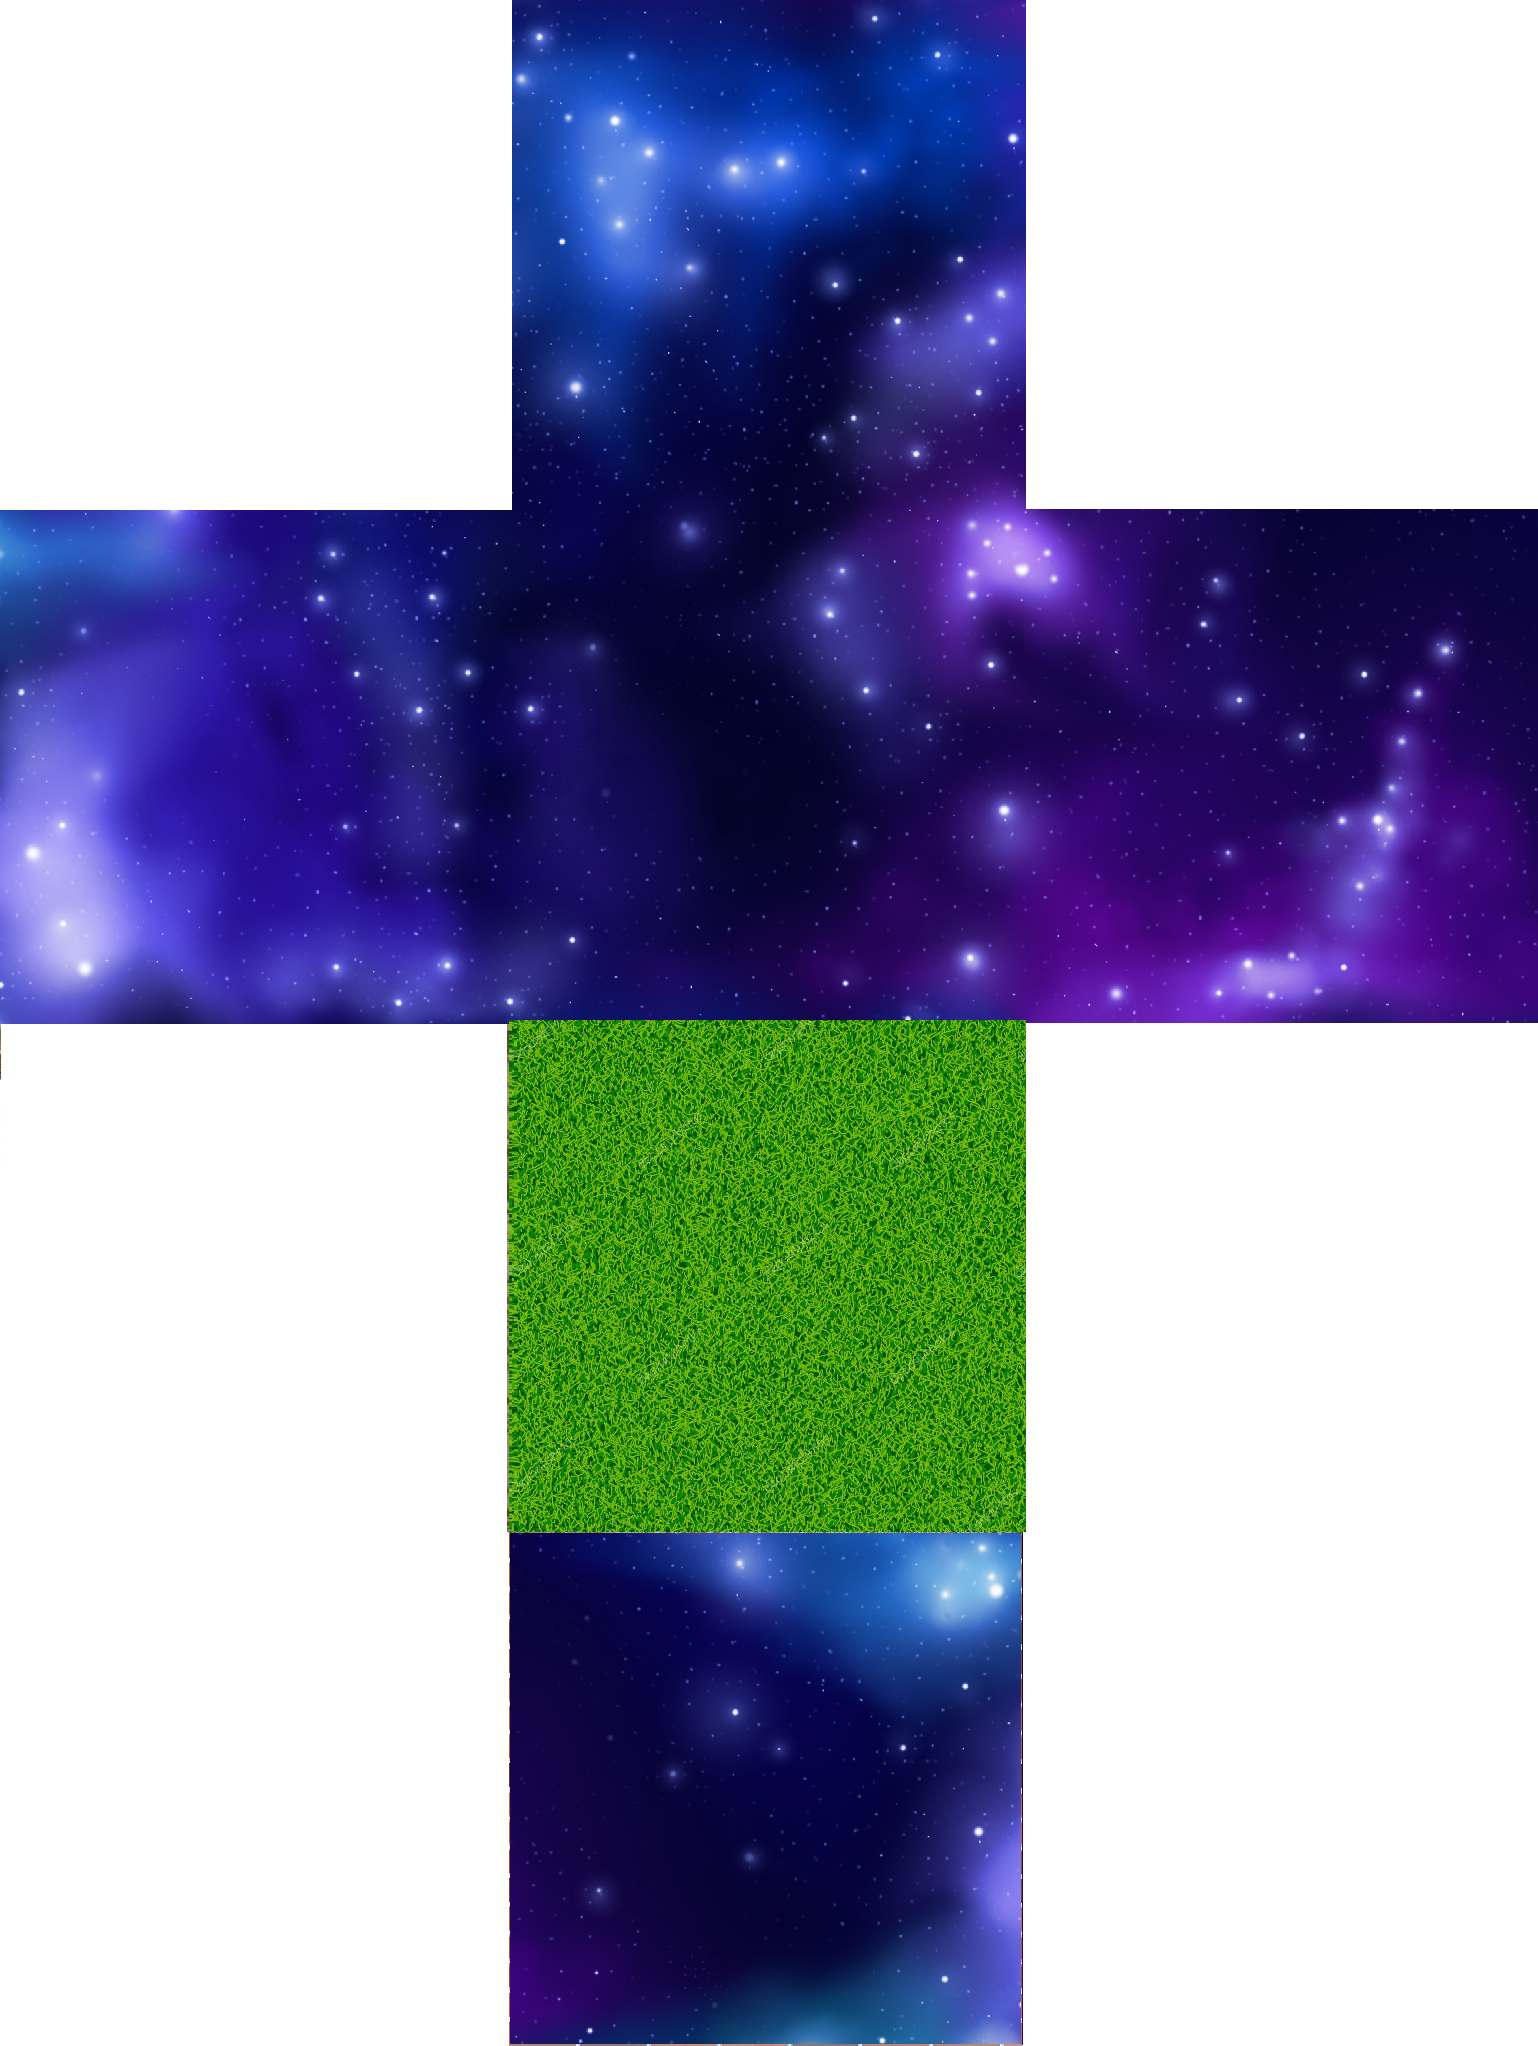
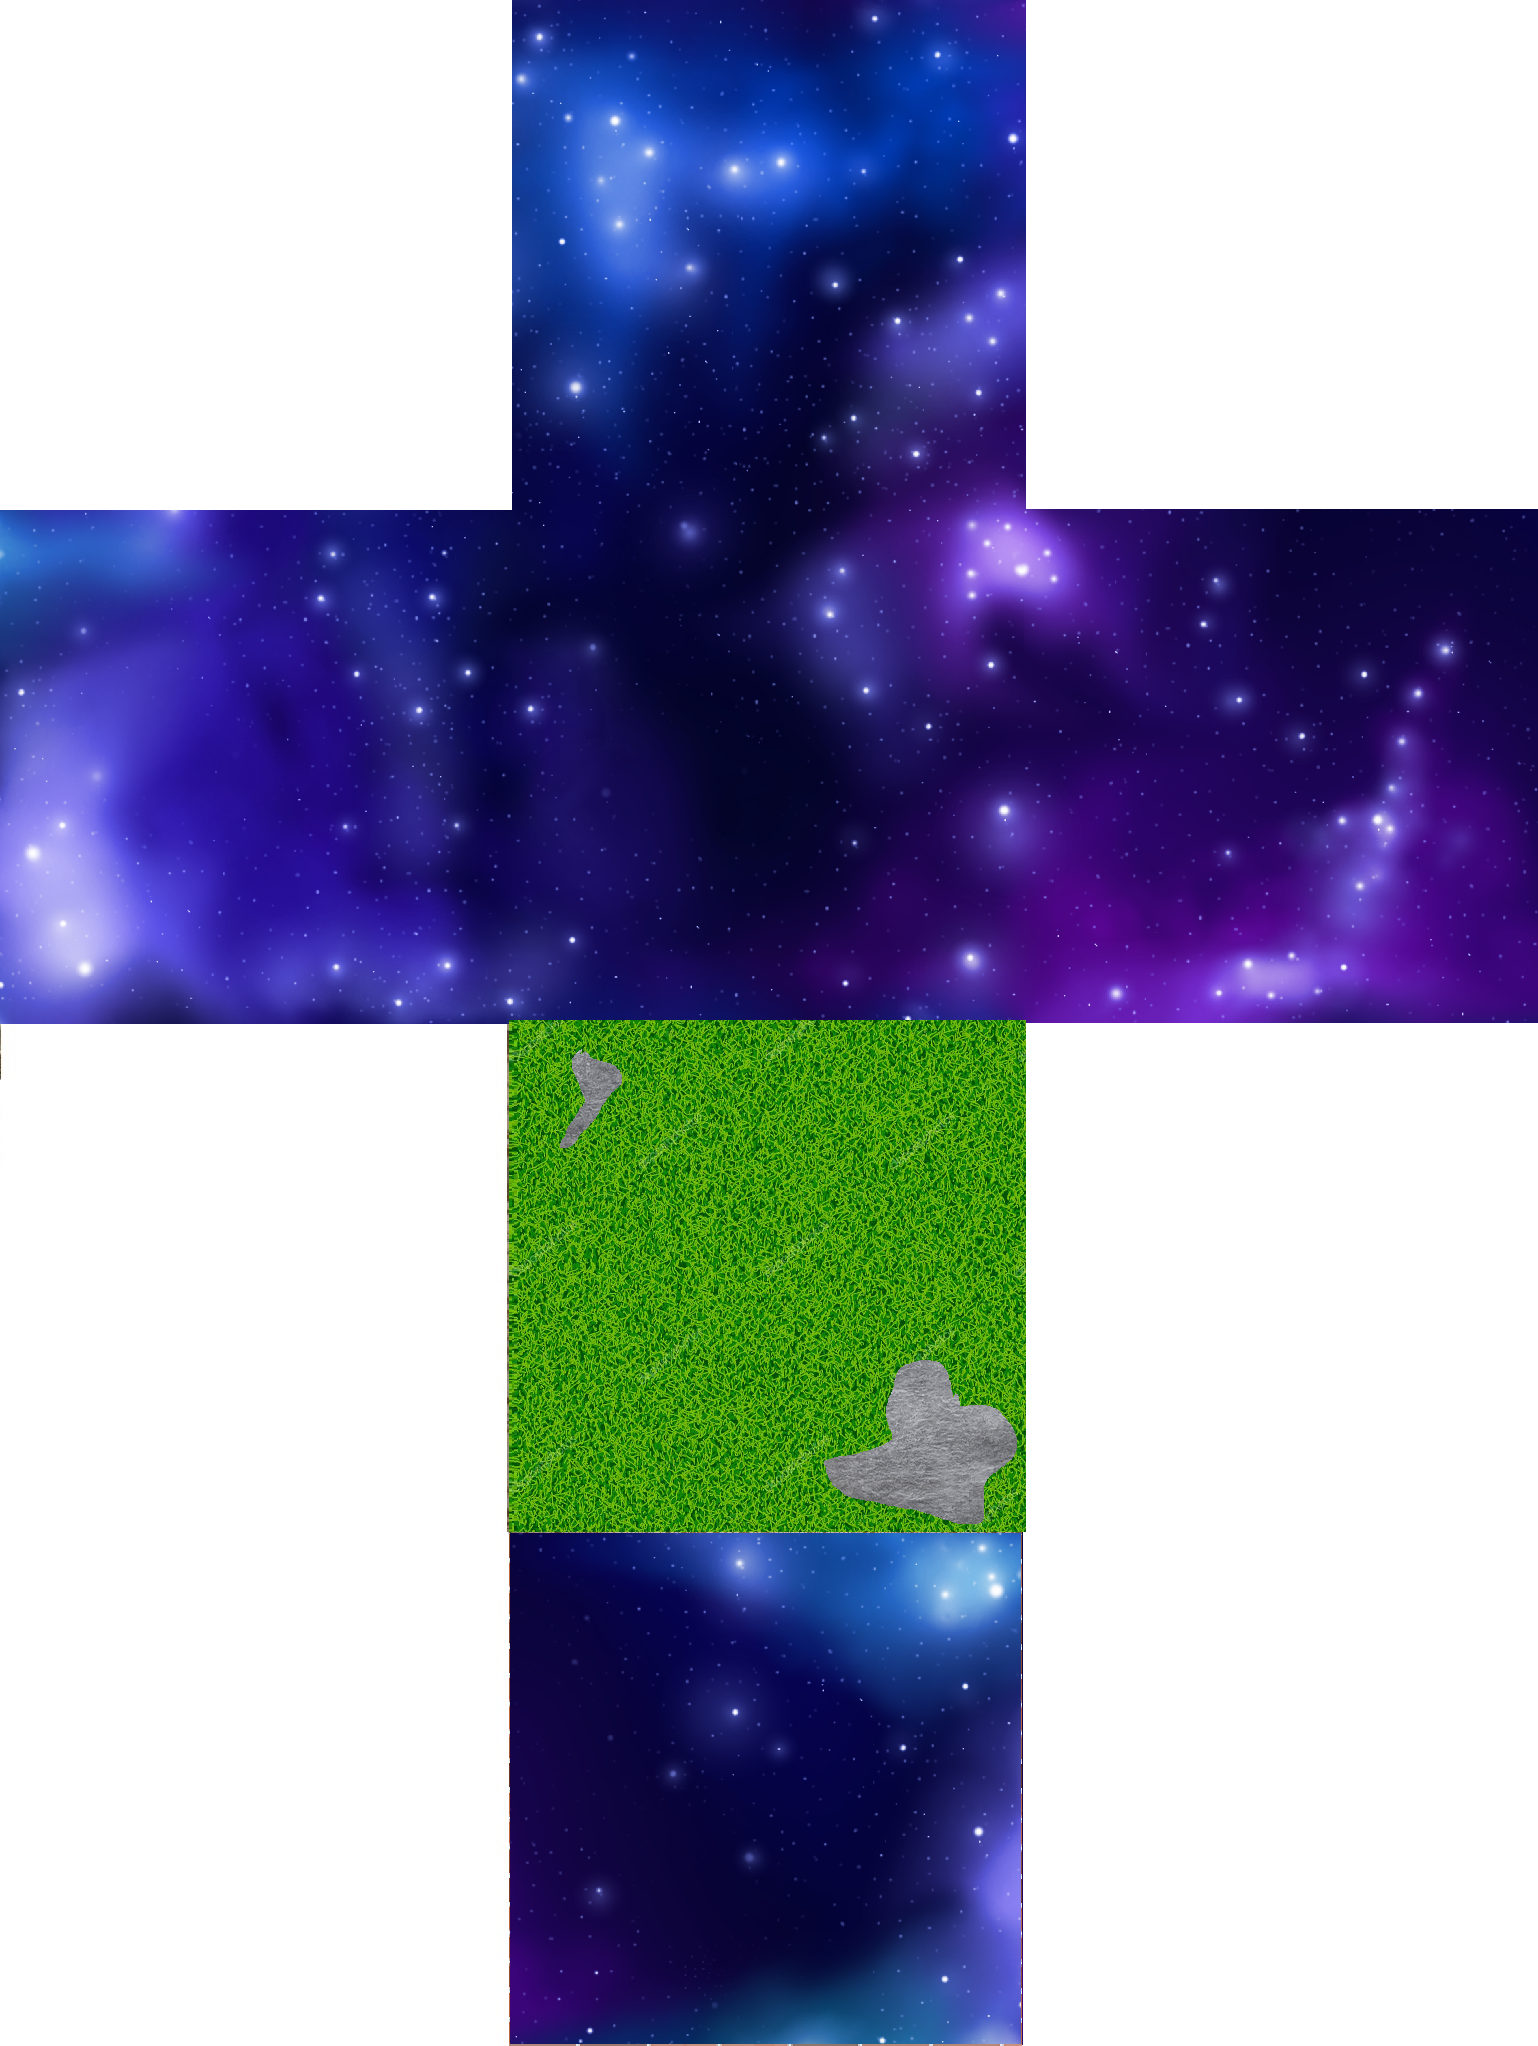
Update all scene

Changed region(s): [[0.5306, 0.6466, 0.6554, 0.739], [0.3745, 0.4927, 0.4057, 0.5543]]

diff --git a/main.py b/main.py
@@ -1,16 +1,4 @@
-#!/usr/bin/env python
-# coding: utf-8
-
-# # Aula 10.Ex1 - Modelo de Iluminação - Ambiente e Difusa
-
-# ### Primeiro, importamos as bibliotecas necessárias.
-# Verifique no código anterior um script para instalar as dependências necessárias (OpenGL e GLFW) antes de prosseguir.
-
-# In[ ]:
-
-
 import glfw
-from OpenGL.GL import *
 import numpy as np
 import glm
 
@@ -112,16 +100,19 @@ vertices_list = []
 normals_list = []
 textures_coord_list = []
 
-model_files = [['house.obj', 'house.jpg'],['outhouse.obj','outhouse.png'],['sky.obj','sky.jpg'],
-               ['table.obj', 'table.jpg'],['chair.obj', 'chair.jpg'],['black-chair.obj', 'black-chair.jpg']]
-#model_files = [['table.obj', 'table.jpg']]
+model_files = [['house.obj', 'house.jpg'],['outhouse.obj','outhouse.png'],['sky.obj','sky.png'],
+               ['table.obj', 'table.jpg'],['chair.obj', 'chair.jpg'],['stone.obj', 'stone.png'],
+               ['stone2.obj', 'stone2.jpg'],['stick.obj','stick.jpg'],['ball.obj', 'ball.png']]
 model_geometrical_init_infos = [{'r':[1,0,0],'s':[.3,.3,.3],'t':[0,0,-0.59], 'a':-90,'kd':0.3,'ka':0.5},
                                 {'r':[1,0,0],'s':[.300001,.300001,.300001],'t':[0,0,-0.59], 'a':-90,'kd':0.3,'ka':0.5},
-                                {'r':[1,0,0],'s':[.9,.9,.9],'t':[0,0,0], 'a':-90,'kd':0.3,'ka':0.5},
+                                {'r':[1,0,0],'s':[1.5,1.5,1.5],'t':[0,0,.55], 'a':-90,'kd':0.3,'ka':0.5},
                                 {'r':[1,1,1],'s':[.3,.3,.3],'t':[0.2,-1.25,0.3], 'a':0,'kd':0.3,'ka':0.5},
+
                                 {'r':[0,1,0],'s':[.002,.002,.002],'t':[-.25,-.9,0], 'a':-45,'kd':0.3,'ka':0.5},
-                                {'r':[0,1,0],'s':[.002,.002,.002],'t':[-.25,-.9,0], 'a':-45,'kd':0.3,'ka':0.5}]
-#model_geometrical_init_infos = [{'r':[0.00001,0.00001,0.00001],'s':[.1,.1,.1],'t':[0,0,0], 'a':0,'kd':0.3,'ka':0.5}]
+                                {'r':[0,1,0],'s':[.02,.02,.02],'t':[-.7,-.95,0], 'a':45,'kd':0.3,'ka':0.5},
+                                {'r':[0,1,0],'s':[.01,.01,.01],'t':[-.7,-.8,0], 'a':0,'kd':0.3,'ka':0.5},
+                                {'r':[0,1,0],'s':[.03,.03,.03],'t':[.3,-.9,0], 'a':0,'kd':0.3,'ka':0.5},
+                                {'r':[0,1,0],'s':[.3,.3,.3],'t':[1,-.9,0], 'a':0,'kd':0.3,'ka':0.5}]
 model_infos = []
 for idx, model_file in enumerate(model_files):
     modelo = load_model_from_file(model_file[0])
@@ -137,9 +128,7 @@ for idx, model_file in enumerate(model_files):
     print(f'Processando modelo {model_file[0]}. Vertice final:', len(vertices_list))
     last_point = len(vertices_list)
     model_infos.append({'init':initial_point, 'last':last_point})
-    print(idx)
     load_texture_from_file(idx, model_file[1])
-
 buffer = glGenBuffers(3)
 
 vertices = np.zeros(len(vertices_list), [("position", np.float32, 3)])
@@ -218,6 +207,18 @@ def key_event(window, key, scancode, action, mods):
     if key == 264 and (action == 1 or action == 2):  # tecla baixo
         kd_inc += 0.05
 
+    if cameraPos.x >= 1:
+        cameraPos.x = .98
+    if cameraPos.y >= 1:
+        cameraPos.y = .98
+    if cameraPos.z >= 1:
+        cameraPos.z = .98
+    if cameraPos.x <= -1:
+        cameraPos.x = -.98
+    if cameraPos.y <= -.8:
+        cameraPos.y = -.8
+    if cameraPos.z <= -1:
+        cameraPos.z = -.98
 
 firstMouse = True
 yaw = -90.0
@@ -258,14 +259,6 @@ def mouse_event(window, xpos, ypos):
 glfw.set_key_callback(window, key_event)
 glfw.set_cursor_pos_callback(window, mouse_event)
 
-
-# ### Matrizes Model, View e Projection
-#
-# Teremos uma aula específica para entender o seu funcionamento.
-
-# In[ ]:
-
-
 def model(angle, r_x, r_y, r_z, t_x, t_y, t_z, s_x, s_y, s_z):
     angle = math.radians(angle)
 
@@ -298,20 +291,8 @@ def projection():
     mat_projection = np.array(mat_projection)
     return mat_projection
 
-
-# ### Nesse momento, exibimos a janela.
-
-# In[ ]:
-
-
 glfw.show_window(window)
 glfw.set_cursor_pos(window, lastX, lastY)
-
-# ### Loop principal da janela.
-# Enquanto a janela não for fechada, esse laço será executado. É neste espaço que trabalhamos com algumas interações com a OpenGL.
-
-# In[ ]:
-
 
 import math
 
@@ -335,12 +316,9 @@ while not glfw.window_should_close(window):
         glPolygonMode(GL_FRONT_AND_BACK, GL_LINE)
     if polygonal_mode == False:
         glPolygonMode(GL_FRONT_AND_BACK, GL_FILL)
-
+    model_geometrical_init_infos[8]['a'] += 0.1
     for idx,obj in enumerate(model_infos):
         obj_geo = model_geometrical_init_infos[idx]
-        if temp:
-            print(obj, idx, obj_geo)
-
         angle = obj_geo['a']
         r_x = obj_geo['r'][0]
         r_y = obj_geo['r'][1]
@@ -363,7 +341,6 @@ while not glfw.window_should_close(window):
 
         # desenha o modelo
         glDrawArrays(GL_TRIANGLES, obj['init'], obj['last']-1)  ## renderizando
-    temp = False
     mat_view = view()
     loc_view = glGetUniformLocation(program, "view")
     glUniformMatrix4fv(loc_view, 1, GL_TRUE, mat_view)
